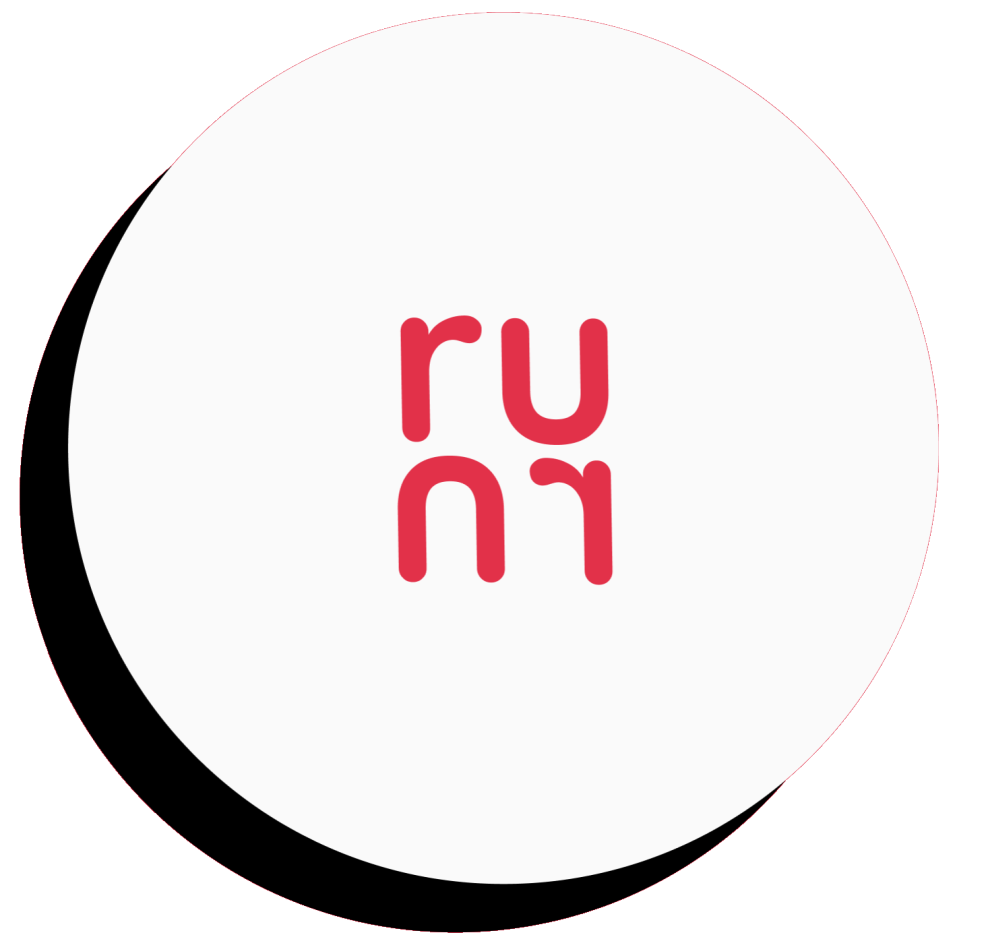
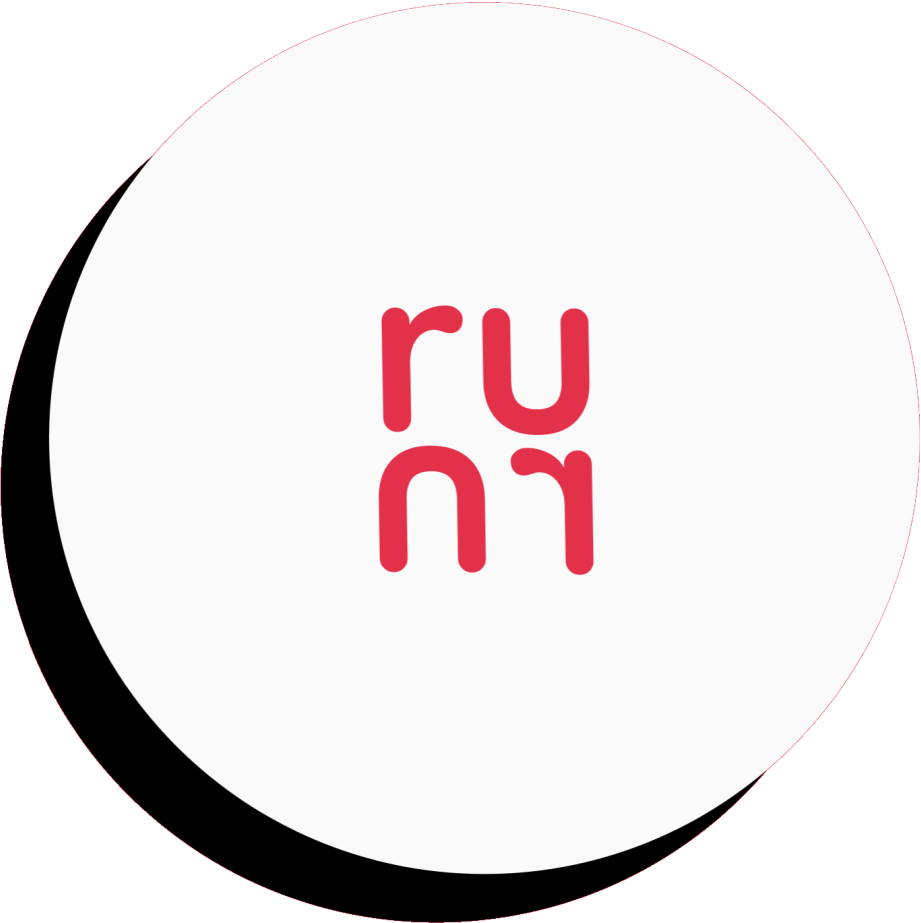
Fixed loading image

diff --git a/lib/screens/home.dart b/lib/screens/home.dart
@@ -284,7 +284,28 @@ class HomePage extends StatelessWidget {
                   zoom: 15.0,
                 ),
               )
-            : CircularProgressIndicator(),
+            : Center(
+            child: Stack(
+              children: [
+                Container(
+                  alignment: Alignment.center,
+                  child: SizedBox(
+                    height: 150,
+                    width: 150,
+                    child: CircularProgressIndicator()
+                  )
+                ),
+                Container(
+                  alignment: Alignment.center,
+                    child: SizedBox(
+                        height: 100,
+                        width: 100,
+                        child: Image.asset("assets/runr_no_circle.png")
+                    )
+                )
+              ]
+            )
+        ),
         borderRadius: radius,
       ),
     );
